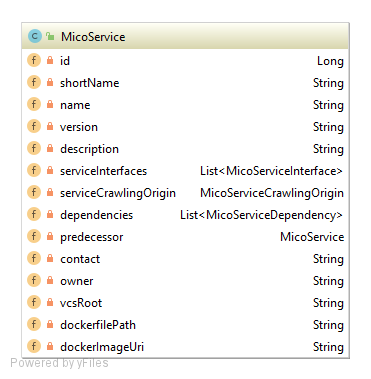
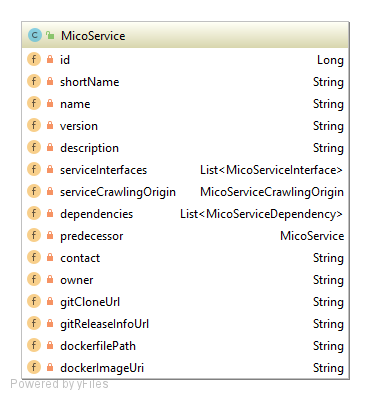
Update documentation of domain model

Changed region(s): [[0.0297, 0.058, 0.9514, 0.9868]]

diff --git a/domain_model.rst b/domain_model.rst
@@ -93,8 +93,11 @@ Represents a service in the context of MICO.
     * owner
         Human readable information for the service owner who is responsible for this service.
 
-    * vcsRoot
-        The URL to the root directory of, e.g., the corresponding GitHub repository.
+    * gitCloneUrl
+        The URL to clone the corresponding GitHub repository.
+
+    * gitReleaseInfoUrl
+        The URL to the get the information about a specific git release.
 
     * dockerImageUri
         The fully qualified URI to the image on DockerHub. Either set after the image has been built by MICO (if the service originates from GitHub) or set by the user directly.
@@ -158,7 +161,7 @@ MicoServiceInterface
     * serviceInterfaceName
         The name of this `MicoServiceInterface`_
 
-    * ports 
+    * ports
         The list of ports.
 
 *Optional fields*
@@ -203,9 +206,9 @@ Represents a basic port with a port number and port type (protocol).
 
     * number
         The port number.
-    
+
     * type
-        The type (protocol) of this port. 
+        The type (protocol) of this port.
 
 MicoImageContainer
 ==================
@@ -218,7 +221,7 @@ Represents a container running in a Kubernetes Pod.
     * image
         The name of the Docker image. Default is the `MicoService`_ shortname
 
-    * ports 
+    * ports
         The list of `MicoPort`_ for this service.
 
 *Optional fields*
@@ -252,7 +255,7 @@ Represents a resource constraint specifying the CPU units and memory. Can be use
             * 1 GCP Core
             * 1 Azure vCore
             * 1 IBM vCPU
-            * 1 Hyperthread on a bare-metal Intel processor with Hyperthreading. 
+            * 1 Hyperthread on a bare-metal Intel processor with Hyperthreading.
 
             Can also be specified as a fraction up to precision 0.001.
 
